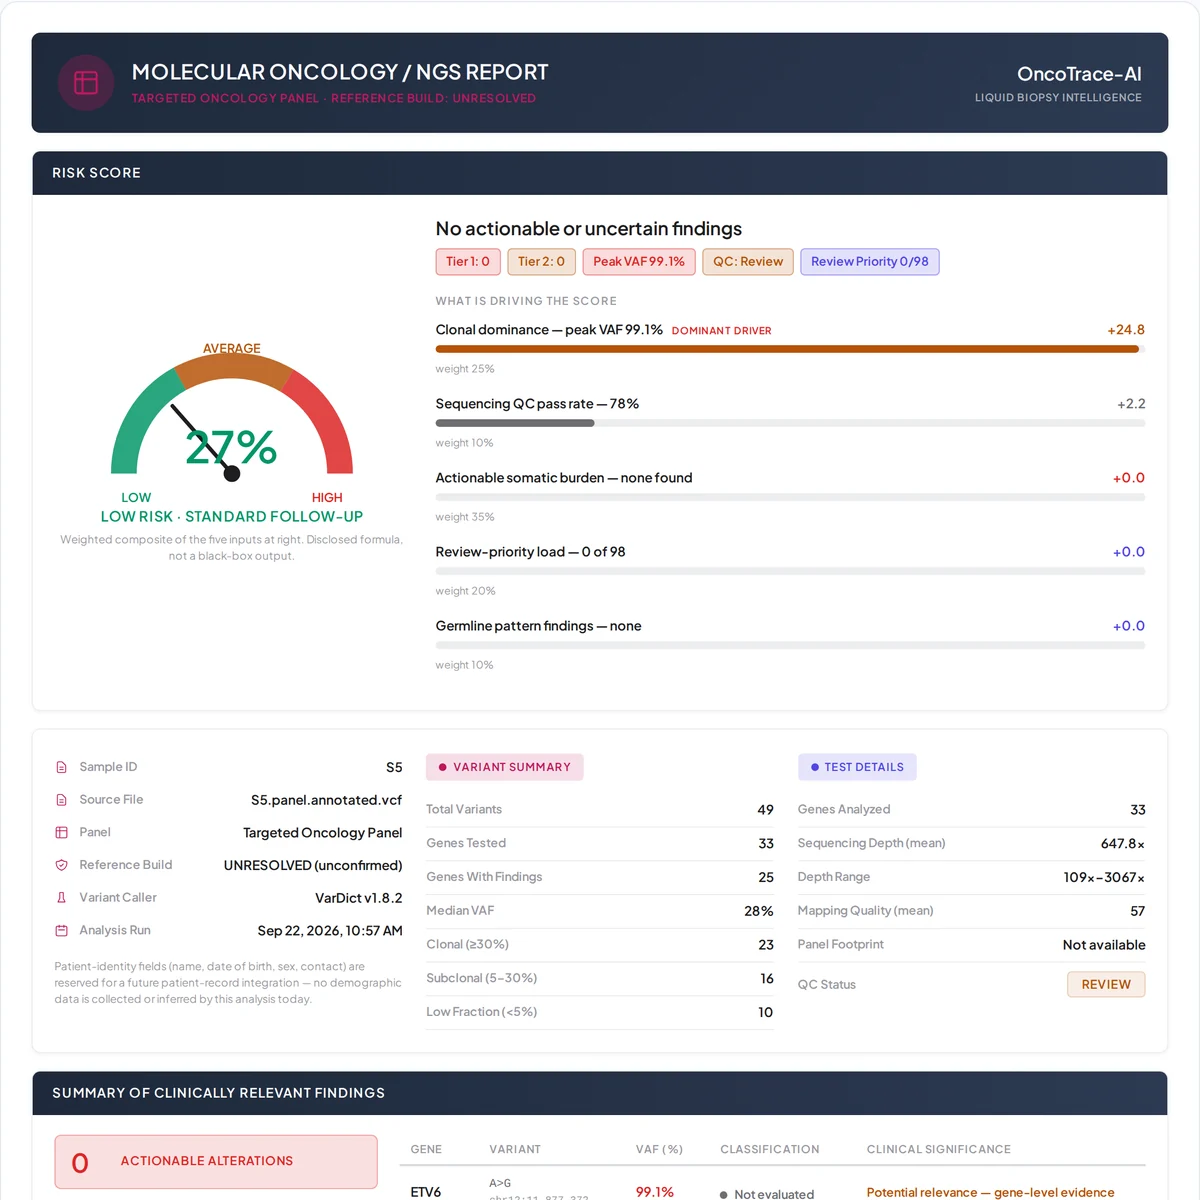
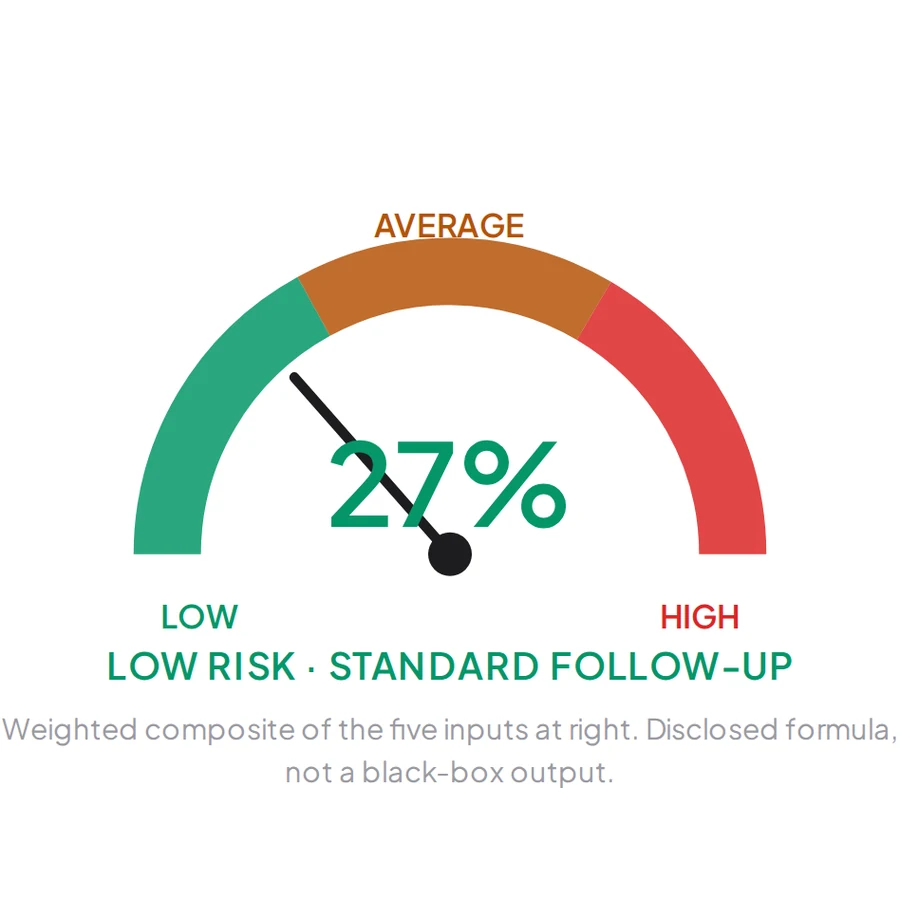
Anand Sep 22 afternoon workflow change

diff --git a/client/src/components/HeroSection.jsx b/client/src/components/HeroSection.jsx
@@ -23,6 +23,11 @@ const WORKFLOW_STEPS = [
     description: 'AI models identify and tier clinically relevant variants.',
   },
   {
+    // report-preview.webp is itself a tight crop (the risk-score gauge +
+    // "27%" + LOW/HIGH labels + risk-level line only, captured directly from
+    // the live report, no surrounding chrome) -- it's already exactly the
+    // "focused on the risk score" framing, so no extra CSS zoom is layered
+    // on top here; that would just crop into the gauge itself.
     id: 5, label: 'AI Report', icon: '/report-preview.webp', color: '#475569',
     description: 'Findings are compiled into a structured, evidence-linked report.',
   },
@@ -122,10 +127,19 @@ const scopedCSS = `
     box-shadow: 0 12px 28px rgba(15, 23, 42, 0.10);
   }
   .flow-card img {
+    /* --flow-img-zoom is an optional per-step base zoom (see step.zoom in
+       WORKFLOW_STEPS), set inline per-card; the hover rule below multiplies
+       on top of it rather than overriding it, so a zoomed step still gets
+       the same hover feedback as the others. transform-origin anchored to
+       the top: a centered zoom pushed the AI Report screenshot's own navy
+       header bar (its most recognizable "this is the real product" cue) out
+       of frame; anchoring top keeps that bar in view while still cropping in. */
+    transform: scale(var(--flow-img-zoom, 1));
+    transform-origin: 50% 15%;
     transition: transform 0.4s ease;
   }
   .flow-card:hover img {
-    transform: scale(1.04);
+    transform: scale(calc(var(--flow-img-zoom, 1) * 1.04));
   }
 `
 
@@ -240,7 +254,15 @@ function FlowCard({ step, index, inView, isReduced }) {
             onLoad={() => setImgLoaded(true)}
             onError={() => setImgError(true)}
             className="absolute inset-0 h-full w-full object-cover"
-            style={{ opacity: imgLoaded ? 1 : 0, transition: 'opacity 0.4s ease' }}
+            style={{
+              opacity: imgLoaded ? 1 : 0,
+              transition: 'opacity 0.4s ease, transform 0.4s ease',
+              // Read by the .flow-card img / .flow-card:hover img rules
+              // above (see step.zoom in WORKFLOW_STEPS). The image box has
+              // overflow-hidden, so the zoom crops cleanly rather than
+              // spilling past the card's rounded corners.
+              '--flow-img-zoom': step.zoom || 1,
+            }}
           />
         </div>
 
@@ -401,10 +423,9 @@ function HeroIntro() {
       <div className="relative mx-auto max-w-[1400px] px-4 sm:px-6 lg:pl-10 lg:pr-0">
         {/* On desktop the image is pulled out of this container (see below); the copy
             just caps its own width so it never runs under the image.
-            Vertical padding trimmed (was py-16/20/32) and the image column
-            lifted (was h-190/240px) so the section takes up less of the
-            viewport overall, bringing SampleReportSection up sooner. */}
-        <div className="grid grid-cols-1 items-center gap-5 py-8 sm:py-10 lg:block lg:py-16">
+            Vertical padding trimmed yet again (was py-8/10/16) to lift the
+            workflow section further up the page. */}
+        <div className="grid grid-cols-1 items-center gap-4 py-6 sm:py-8 lg:block lg:py-12">
 
           {/* ── Left: copy — sizes reduced one more step across the board ── */}
           <div className="text-center lg:max-w-[45%] lg:min-w-[480px] lg:text-left xl:max-w-[660px]">
@@ -420,11 +441,11 @@ function HeroIntro() {
                 <span className="absolute inline-flex h-full w-full rounded-full bg-emerald-400 opacity-70" />
                 <span className="relative inline-flex h-1.5 w-1.5 rounded-full bg-emerald-500" />
               </span>
-              <span className="text-[10px] font-bold uppercase tracking-[0.12em] text-emerald-700 sm:text-[11px]">
+              <span className="text-[9px] font-bold uppercase tracking-[0.12em] text-emerald-700 sm:text-[10px]">
                 Open Source · Not For Profit
               </span>
               <span className="hidden h-3 w-px bg-emerald-300/60 sm:block" aria-hidden="true" />
-              <span className="text-[10px] font-bold uppercase tracking-[0.12em] text-blue-600 sm:text-[11px]">
+              <span className="text-[9px] font-bold uppercase tracking-[0.12em] text-blue-600 sm:text-[10px]">
                 AI For Health · Care For All
               </span>
             </div>
@@ -434,10 +455,11 @@ function HeroIntro() {
               className="hero-anim-headline mt-4 font-bold tracking-[-0.03em] text-slate-900 sm:mt-5"
               // Floor kept low: "Monitoring of Oncology" is forced onto one
               // line below (whitespace-nowrap, so it never breaks mid-phrase)
-              // and needs enough room on narrow phones (280-360px) to avoid
-              // clipping past the column edge. Ceiling lowered a further step
-              // (was 3.4rem) per request to shrink the headline overall.
-              style={{ fontSize: 'clamp(1.3rem, 7.8vw, 3.05rem)', lineHeight: 1.1, animationDelay: '0.1s' }}
+              // and needs enough room on narrow phones (260-360px) to avoid
+              // clipping past the column edge -- re-verified against the same
+              // 260-2560px sweep after each reduction. Ceiling lowered yet
+              // another step (was 3.05rem) per request.
+              style={{ fontSize: 'clamp(1.2rem, 7.2vw, 2.75rem)', lineHeight: 1.12, animationDelay: '0.1s' }}
             >
               Real-time Precision
               <br />
@@ -459,7 +481,7 @@ function HeroIntro() {
                 style={{ background: 'linear-gradient(180deg, #2563eb, #06b6d4)' }}
                 aria-hidden="true"
               />
-              <p className="text-[11px] font-semibold uppercase tracking-[0.2em] text-blue-600 sm:text-[13px]">
+              <p className="text-[10px] font-semibold uppercase tracking-[0.2em] text-blue-600 sm:text-[12px]">
                 AI — Powered
               </p>
             </div>
@@ -484,9 +506,9 @@ function HeroIntro() {
           </div>
 
           {/* ── Mobile / tablet only: image sits below the copy, flush to the right edge.
-               Sized down another step (was 140/180px tall, 220/250px wide)
+               Sized down yet another step (was 120/155px tall, 190/220px wide)
                to track the smaller text above. ── */}
-          <div className="relative -mr-4 flex h-[120px] items-center justify-end sm:-mr-6 sm:h-[155px] lg:hidden">
+          <div className="relative -mr-4 flex h-[100px] items-center justify-end sm:-mr-6 sm:h-[130px] lg:hidden">
             <div
               className="absolute inset-y-0 right-0 -z-10 w-[85%] rounded-l-[2.5rem]"
               aria-hidden="true"
@@ -499,7 +521,7 @@ function HeroIntro() {
               alt="A gloved hand holding a blood sample tube, representing the starting point of the OncoTrace-AI liquid biopsy pipeline"
               draggable={false}
               loading="eager"
-              className="relative z-10 h-auto w-[48%] max-w-[190px] object-contain sm:max-w-[220px]"
+              className="relative z-10 h-auto w-[42%] max-w-[160px] object-contain sm:max-w-[185px]"
               style={{ filter: 'drop-shadow(0 24px 32px rgba(15, 23, 42, 0.16))' }}
             />
           </div>
@@ -509,9 +531,9 @@ function HeroIntro() {
       {/* ── Desktop only: image anchored to the TRUE viewport right edge.
            A direct child of the full-width <section>, so `right-0` is the real
            screen edge rather than the centered max-w-[1400px] container's edge.
-           Column shrunk one more step (was 36vw/520px) to track the smaller
+           Column shrunk yet another step (was 31vw/460px) to track the smaller
            text beside it. ── */}
-      <div className="pointer-events-none absolute right-0 top-[9%] hidden w-[31vw] max-w-[460px] items-start justify-end lg:flex">
+      <div className="pointer-events-none absolute right-0 top-[10%] hidden w-[26vw] max-w-[400px] items-start justify-end lg:flex">
         <div
           // Was h-[110%], taller than its own parent -- close enough to the
           // section's bottom edge for the ellipse's fade (previously reaching
@@ -589,12 +611,12 @@ export default function HeroSection() {
         // (which just relocates the mismatch to wherever it doesn't line up).
         style={{ background: '#f8fafc' }}
       >
-        <div className="max-w-[1600px] mx-auto px-3 sm:px-4 lg:px-6 py-12 sm:py-14 lg:py-18">
+        <div className="max-w-[1600px] mx-auto px-3 sm:px-4 lg:px-6 py-9 sm:py-11 lg:py-14">
 
           {/* Section Header — "The Pipeline" eyebrow removed per request; the
               heading alone carries the section label now. */}
           <div
-            className="text-center mb-7 sm:mb-9 lg:mb-11"
+            className="text-center mb-6 sm:mb-7 lg:mb-9"
             style={{
               opacity:   workflowInView ? 1 : 0,
               transform: workflowInView ? 'translateY(0)' : 'translateY(20px)',
